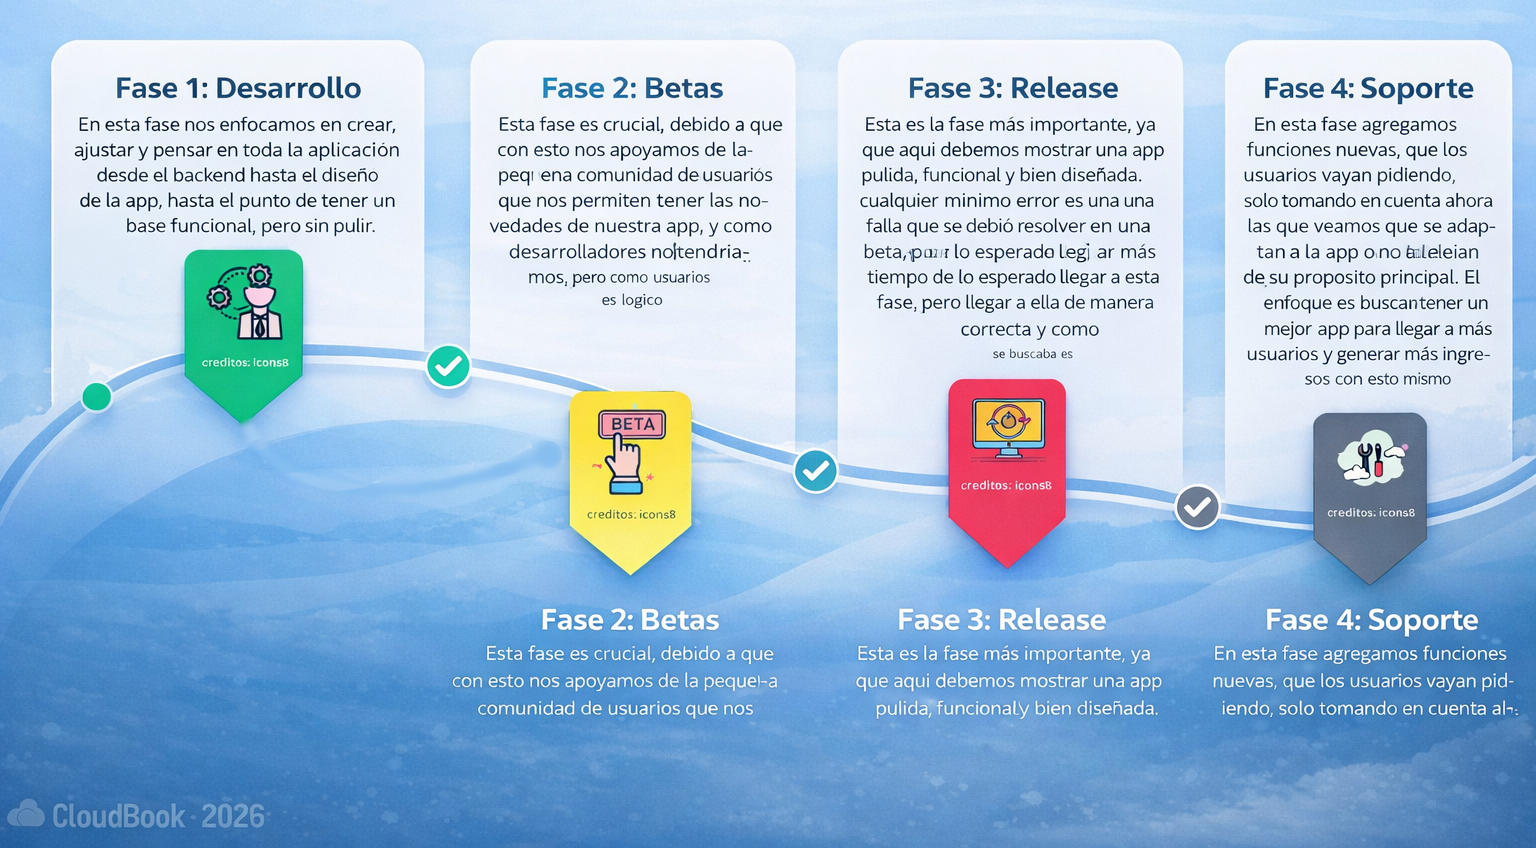
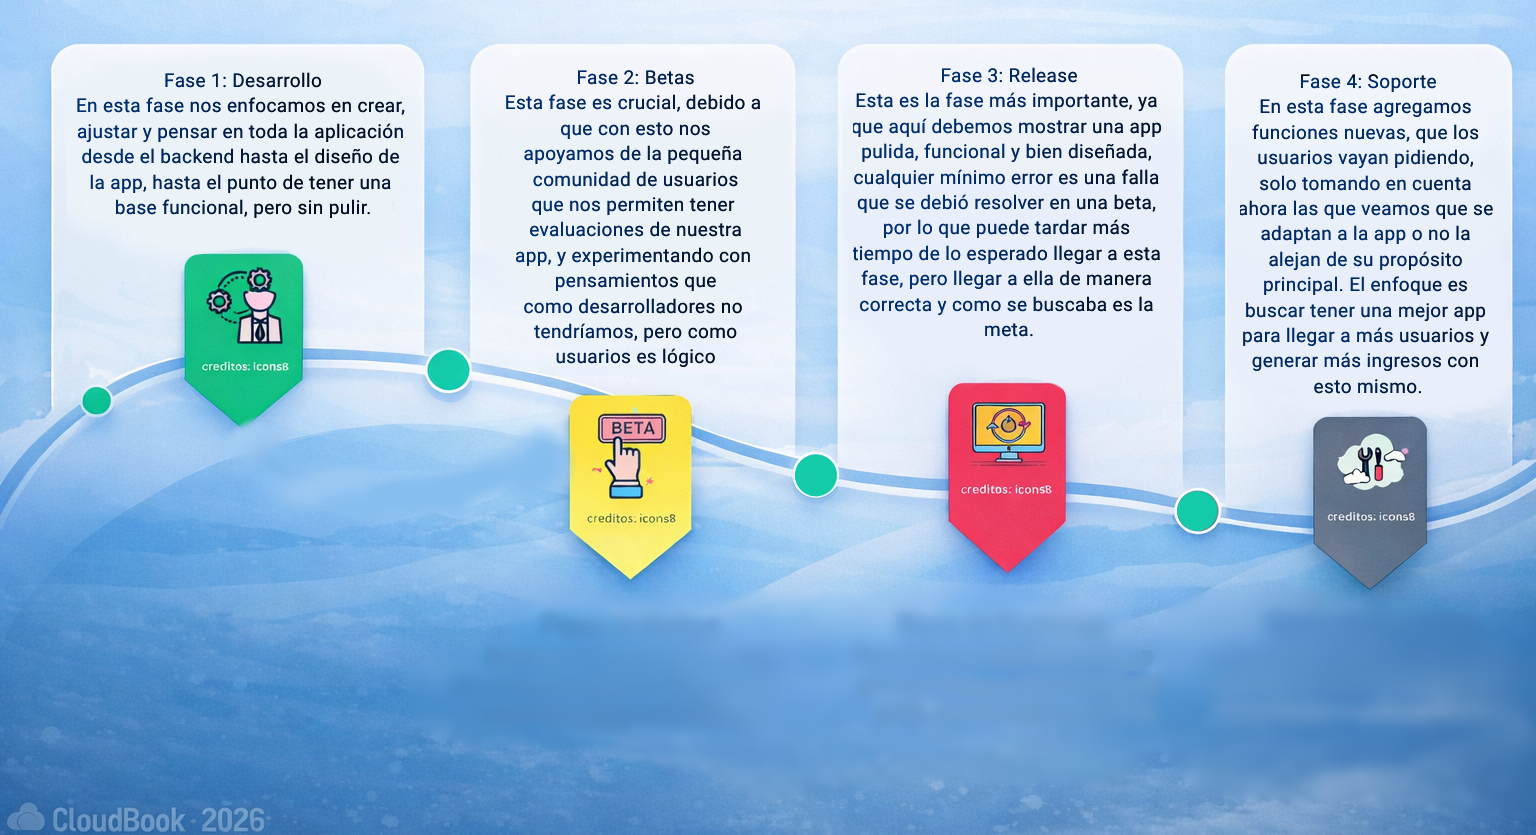
2.0.3a: Bugfix

diff --git a/CHANGELOG.md b/CHANGELOG.md
@@ -1,5 +1,8 @@
 ## Releases
 
+## 2.0.3a
+  - Se corrigió el roadmap 🛠
+
 ## 2.0.3
   - Nueva versión! 🚀
 
